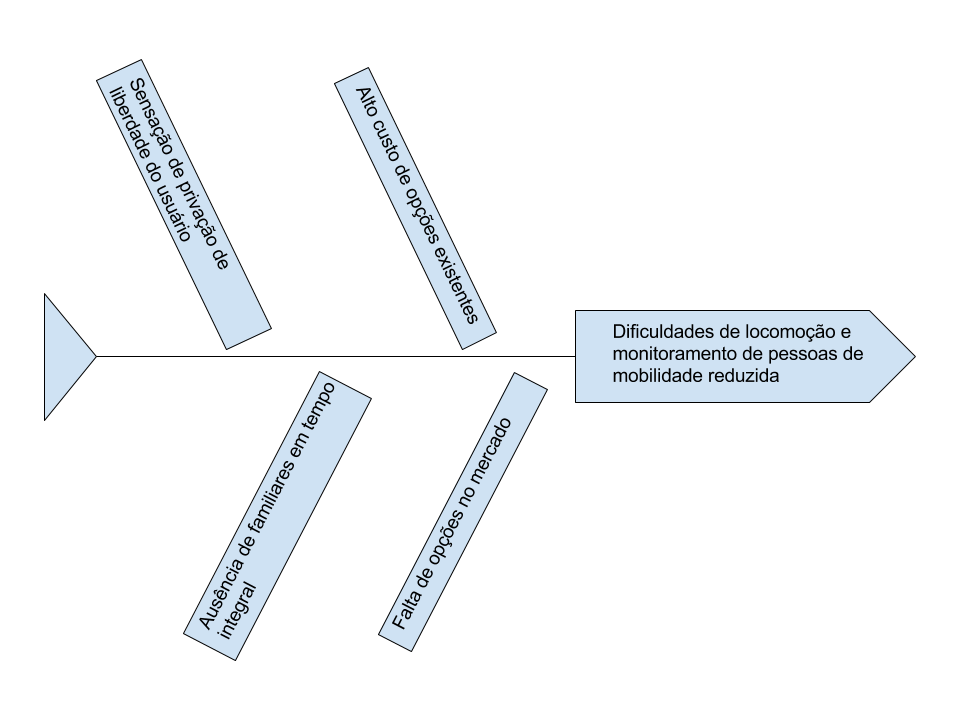
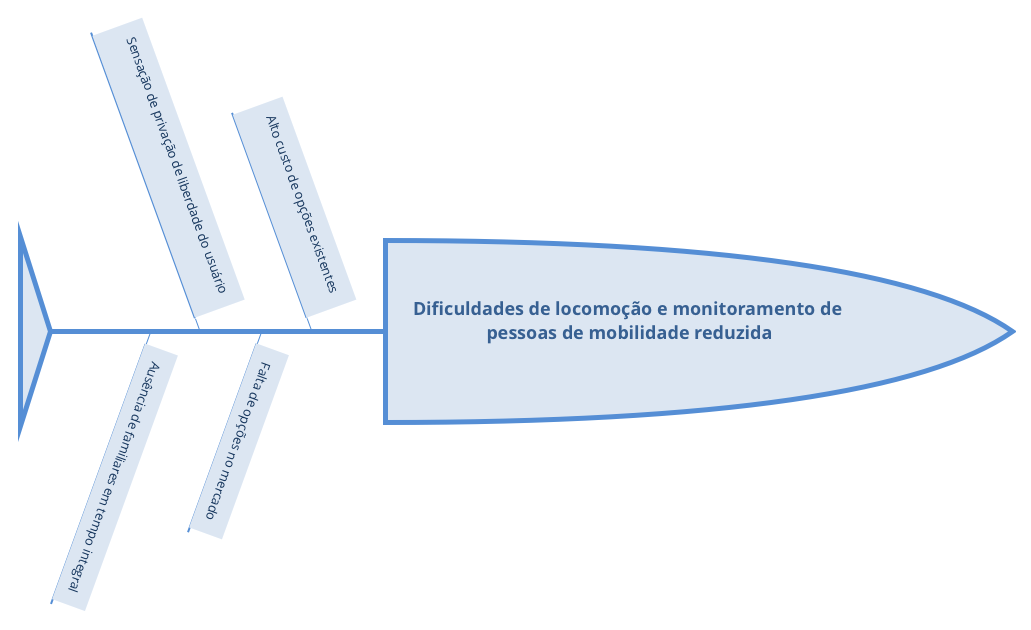
Alterando figura do fishbone

Changed region(s): [[0.0, 0.0302, 1.0, 0.9651]]

diff --git a/editaveis/introducao.tex b/editaveis/introducao.tex
@@ -54,7 +54,7 @@ de Causa e Efeito, ou fishbone, conforme Figura \ref{fishbone}.
 \begin{figure}[h]
     \centering
     \label{fishbone}
-    \includegraphics[keepaspectratio=true,scale=0.5]{figuras/fishbone.eps}
+    \includegraphics[scale=0.5]{figuras/fishbone.png}
     \caption{Diagrama de causa e efeito (\textit{fishbone}) para mapeamento do problema.}
 \end{figure}
 
